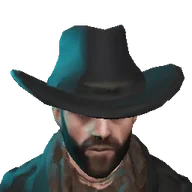
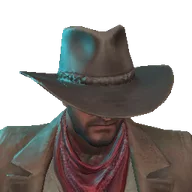
Characters 11-22 follow-ups: portraits for the twelve new and the swapped Goblina and Dusty Ranger; the boxer bunny is Buster Haymaker (male body), its grip re-fitted
Claude-Session: https://claude.ai/code/session_01PfNGaHafsFeFAcWZgUEzoB

diff --git a/packages/client/src/frontend/portraitIndex.ts b/packages/client/src/frontend/portraitIndex.ts
@@ -38,6 +38,7 @@ export const SHIPPED_PORTRAITS: Readonly<Record<string, string>> = {
   'core.botboy': 'core.botboy.webp?v=54f1ce25e3',
   'core.botney': 'core.botney.webp?v=d04374461a',
   'core.boxduck': 'core.boxduck.webp?v=cb254eeb24',
+  'core.boxerbunny': 'core.boxerbunny.webp?v=946eee7ea7',
   'core.brannock': 'core.brannock.webp?v=403aa9568d',
   'core.brasshare': 'core.brasshare.webp?v=eea42f5993',
   'core.brawler': 'core.brawler.webp?v=6444222401',
@@ -47,15 +48,18 @@ export const SHIPPED_PORTRAITS: Readonly<Record<string, string>> = {
   'core.butcher': 'core.butcher.webp?v=42d05acfac',
   'core.celestialknight': 'core.celestialknight.webp?v=cfbede0ff9',
   'core.chameleon': 'core.chameleon.webp?v=edd7482869',
+  'core.cheetah': 'core.cheetah.webp?v=c842ee9d7c',
   'core.coachtortoise': 'core.coachtortoise.webp?v=dabdc8b0b0',
   'core.commando': 'core.commando.webp?v=07f61b931d',
   'core.crewalchemist': 'core.crewalchemist.webp?v=2f5e14c2c1',
+  'core.crewchronomage': 'core.crewchronomage.webp?v=c682837211',
   'core.crewcyborg': 'core.crewcyborg.webp?v=33376ee5bb',
   'core.crewdemolitions': 'core.crewdemolitions.webp?v=651de03e68',
   'core.crewgunslinger': 'core.crewgunslinger.webp?v=ee0fb29892',
   'core.crewmechanic': 'core.crewmechanic.webp?v=70f8e574b5',
   'core.crewmedic': 'core.crewmedic.webp?v=8c0d9cba10',
   'core.crewphase': 'core.crewphase.webp?v=8b2827c9cb',
+  'core.crewquartermaster': 'core.crewquartermaster.webp?v=c4a7256139',
   'core.crewrecon': 'core.crewrecon.webp?v=e7db519622',
   'core.crimsonop': 'core.crimsonop.webp?v=d3fa14eb17',
   'core.croakley': 'core.croakley.webp?v=047fda75e1',
@@ -67,7 +71,7 @@ export const SHIPPED_PORTRAITS: Readonly<Record<string, string>> = {
   'core.desertranger': 'core.desertranger.webp?v=d22d8f1724',
   'core.drifter': 'core.drifter.webp?v=883f544047',
   'core.dusttrooper': 'core.dusttrooper.webp?v=1c5cda9972',
-  'core.dustycolt': 'core.dustycolt.webp?v=2365df573d',
+  'core.dustycolt': 'core.dustycolt.webp?v=d91bb5984b',
   'core.elder': 'core.elder.webp?v=a25d620f8e',
   'core.elephantwarrior': 'core.elephantwarrior.webp?v=411c05ff13',
   'core.ember': 'core.ember.webp?v=4cee8aaf7b',
@@ -83,21 +87,23 @@ export const SHIPPED_PORTRAITS: Readonly<Record<string, string>> = {
   'core.frostviking': 'core.frostviking.webp?v=e09f0d5ead',
   'core.galloway': 'core.galloway.webp?v=2c1dd67b03',
   'core.giggles': 'core.giggles.webp?v=68f7642c63',
+  'core.gladiatorrooster': 'core.gladiatorrooster.webp?v=188a481bc7',
   'core.goblin': 'core.goblin.webp?v=9bfd26aa6a',
-  'core.goblinatinker': 'core.goblinatinker.webp?v=a3f1d8a448',
   'core.goblingunslinger': 'core.goblingunslinger.webp?v=e440709911',
   'core.goblinwarlord': 'core.goblinwarlord.webp?v=280e4ce4c2',
   'core.goldenwarrior': 'core.goldenwarrior.webp?v=045850ae4a',
   'core.gorgle': 'core.gorgle.webp?v=cb058e0217',
   'core.gorillag': 'core.gorillag.webp?v=f4f56f9e59',
+  'core.graffitiraccoon': 'core.graffitiraccoon.webp?v=64568772a5',
   'core.grandpachains': 'core.grandpachains.webp?v=91f89d6b16',
   'core.greensentinel': 'core.greensentinel.webp?v=0023c7f602',
   'core.greyfang': 'core.greyfang.webp?v=166d34f779',
-  'core.grizzelda': 'core.grizzelda.webp?v=27545310d7',
+  'core.grizzelda': 'core.grizzelda.webp?v=935ef95313',
   'core.groaner': 'core.groaner.webp?v=da4de19091',
   'core.grunt68': 'core.grunt68.webp?v=9e280b4691',
   'core.gymfrog': 'core.gymfrog.webp?v=8b80fb37c8',
   'core.halvard': 'core.halvard.webp?v=efc8ec809e',
+  'core.harecourier': 'core.harecourier.webp?v=263e2b7460',
   'core.hazmat': 'core.hazmat.webp?v=1901b888c1',
   'core.hector': 'core.hector.webp?v=95e3b5352a',
   'core.hoboclown': 'core.hoboclown.webp?v=b3a1ffaab9',
@@ -110,6 +116,7 @@ export const SHIPPED_PORTRAITS: Readonly<Record<string, string>> = {
   'core.knight': 'core.knight.webp?v=fe7d4b3d86',
   'core.larry': 'core.larry.webp?v=a2adf05270',
   'core.lionsuit': 'core.lionsuit.webp?v=6f110457a8',
+  'core.mantisshrimp': 'core.mantisshrimp.webp?v=86cee56f70',
   'core.maskedfigure': 'core.maskedfigure.webp?v=ca73b9d208',
   'core.mechanic': 'core.mechanic.webp?v=ab3544b0af',
   'core.medic': 'core.medic.webp?v=16947207c4',
@@ -138,10 +145,12 @@ export const SHIPPED_PORTRAITS: Readonly<Record<string, string>> = {
   'core.pruitt': 'core.pruitt.webp?v=7d078a31a7',
   'core.punkin': 'core.punkin.webp?v=9cd76a044a',
   'core.purplehero': 'core.purplehero.webp?v=4afa2b3524',
+  'core.raccoonhacker': 'core.raccoonhacker.webp?v=09433a93b8',
   'core.racer': 'core.racer.webp?v=806ff38eed',
   'core.ranger': 'core.ranger.webp?v=540b7adcce',
   'core.rattles': 'core.rattles.webp?v=d642a4ba8e',
   'core.resolvesoldier': 'core.resolvesoldier.webp?v=993582c66a',
+  'core.rhinojuggernaut': 'core.rhinojuggernaut.webp?v=9c7b2e4df0',
   'core.ricochet': 'core.ricochet.webp?v=2aa2eded45',
   'core.rollerbot': 'core.rollerbot.webp?v=f9f486fd0f',
   'core.rotter': 'core.rotter.webp?v=5a7e1f3d3f',
@@ -173,9 +182,10 @@ export const SHIPPED_PORTRAITS: Readonly<Record<string, string>> = {
   'core.sugarskull': 'core.sugarskull.webp?v=b245247d1a',
   'core.suitedman': 'core.suitedman.webp?v=e88efa9456',
   'core.sunpriest': 'core.sunpriest.webp?v=7d9a2cfea0',
-  'core.sunsetgunslinger': 'core.sunsetgunslinger.webp?v=fc6e03686f',
+  'core.synthwaveeel': 'core.synthwaveeel.webp?v=7aba8da10a',
   'core.t350': 'core.t350.webp?v=b718aa477c',
   'core.tacticalsoldier': 'core.tacticalsoldier.webp?v=fc2791114f',
+  'core.tasmaniandevil': 'core.tasmaniandevil.webp?v=735505a920',
   'core.teddy': 'core.teddy.webp?v=c70cc9263a',
   'core.thornweaver': 'core.thornweaver.webp?v=28aaae6611',
   'core.timetraveler': 'core.timetraveler.webp?v=f5e2f4e636',

diff --git a/packages/shared/src/content/gripFit.generated.ts b/packages/shared/src/content/gripFit.generated.ts
@@ -36,7 +36,7 @@ export const GRIP_FITS: Readonly<Record<string, { grip?: GripTune; arms?: { skin
   'core.botboy': { grip: { gripLong: [0.018, 0, -0.002], supportLong: [-0.008, -0.009, 0], gripPistol: [0.012, -0.004, 0.001], supportPistol: [-0.014, -0.012, 0.01] }, arms: { skin: '#574f3d', cloth: '#484031', trim: '#6b5d49' } },
   'core.botney': { grip: { gripLong: [-0.009, 0.012, 0.002], supportLong: [-0.013, 0.011, 0], gripPistol: [0.004, -0.01, 0.003], supportPistol: [-0.024, 0.014, 0.006] }, arms: { skin: '#4b4b47', cloth: '#434342', trim: '#2a2a29' } },
   'core.boxduck': { grip: { gripLong: [0, 0.012, 0.031], supportLong: [0.018, -0.012, 0], gripPistol: [0.001, -0.019, 0.026], supportPistol: [0.09, -0.008, 0.09] }, arms: { skin: '#f1de82', cloth: '#f3dc6e', trim: '#978844' } },
-  'core.boxerbunny': { grip: { gripLong: [0.004, -0.034, -0.002], supportLong: [0.03, -0.024, 0], gripPistol: [0.005, -0.006, 0.019], supportPistol: [0.036, -0.029, -0.025] }, arms: { skin: '#a2988d', cloth: '#9a938d', trim: '#827d79' } },
+  'core.boxerbunny': { grip: { gripLong: [-0.009, 0.014, -0.017], supportLong: [-0.017, -0.002, 0], gripPistol: [0.01, 0.001, -0.013], supportPistol: [0.088, 0.006, 0.078] }, arms: { skin: '#a2988d', cloth: '#9a938d', trim: '#827d79' } },
   'core.brannock': { grip: { gripLong: [-0.011, 0.006, -0.009], supportLong: [-0.003, 0.009, 0], gripPistol: [0, 0.001, -0.002], supportPistol: [-0.012, 0.013, -0.012] }, arms: { skin: '#b4806a', cloth: '#4b4747', trim: '#57322c' } },
   'core.brasshare': { grip: { gripLong: [-0.007, -0.022, 0.003], supportLong: [0.002, 0.015, 0], gripPistol: [0, -0.011, 0.017], supportPistol: [0.017, 0.023, -0.002] }, arms: { skin: '#453527', cloth: '#4f3e24', trim: '#6e5338' } },
   'core.bronzer': { grip: { gripLong: [-0.016, 0.008, 0.005], supportLong: [0.01, 0.009, 0], gripPistol: [-0.013, -0.005, 0.008], supportPistol: [0.003, 0.005, -0.001] }, arms: { skin: '#787060', cloth: '#716c61', trim: '#46433c' } },

diff --git a/packages/shared/src/content/characters.generated.ts b/packages/shared/src/content/characters.generated.ts
@@ -190,7 +190,7 @@ export const WHOLE_BODY_LOOKS: readonly CharacterLook[] = [
   { id: 'core.synthwaveeel', name: 'DJ Volta Coilwave', body: 'male', head: '', parts: ['meshy_synthwaveeel'], hair: [], colorways: [], skin: null, hairColor: null, whole: { arms: 'ranger_arms_m' }, group: 'animals', tier: 'experimental', nameTheme: 'critter' },
   { id: 'core.tasmaniandevil', name: 'Rowdy Gnashwell', body: 'male', head: '', parts: ['meshy_tasmaniandevil'], hair: [], colorways: [], skin: null, hairColor: null, size: 'small', whole: { arms: 'ranger_arms_m' }, group: 'animals', tier: 'experimental', nameTheme: 'critter' },
   { id: 'core.harecourier', name: 'Pip Quickfoot', body: 'male', head: '', parts: ['meshy_harecourier'], hair: [], colorways: [], skin: null, hairColor: null, size: 'small', whole: { arms: 'ranger_arms_m' }, group: 'animals', tier: 'experimental', nameTheme: 'critter' },
-  { id: 'core.boxerbunny', name: 'Bonnie Haymaker', body: 'female', head: '', parts: ['meshy_boxerbunny'], hair: [], colorways: [], skin: null, hairColor: null, whole: { arms: 'ranger_arms_f' }, group: 'animals', tier: 'experimental', nameTheme: 'critter' },
+  { id: 'core.boxerbunny', name: 'Buster Haymaker', body: 'male', head: '', parts: ['meshy_boxerbunny'], hair: [], colorways: [], skin: null, hairColor: null, whole: { arms: 'ranger_arms_m' }, group: 'animals', tier: 'experimental', nameTheme: 'critter' },
   { id: 'core.cheetah', name: 'Duke Dashwood', body: 'male', head: '', parts: ['meshy_cheetah'], hair: [], colorways: [], skin: null, hairColor: null, whole: { arms: 'ranger_arms_m' }, group: 'animals', tier: 'experimental', nameTheme: 'cat' },
 ];
 

diff --git a/docs/CHARACTERS.md b/docs/CHARACTERS.md
@@ -245,7 +245,7 @@ tiers; anything else fails `pnpm content:check`) is copied into its look (`tier`
     Chompers McFinn (Wacky Shark), Master Bodhi (Zen Capybara); and from the afternoon Brutus Hornbeck (armoured
     rhino juggernaut), Zero Ringtail (raccoon hacker), Tag Malone (graffiti raccoon), Ryo Snapclaw (mantis shrimp
     samurai; blue blood, as a crustacean's), Maximus Cluckworth (gladiator rooster), DJ Volta Coilwave (synthwave
-    eel DJ), Rowdy Gnashwell (Tasmanian devil), Pip Quickfoot (hare courier), Bonnie Haymaker (boxer bunny) and
+    eel DJ), Rowdy Gnashwell (Tasmanian devil), Pip Quickfoot (hare courier), Buster Haymaker (boxer bunny) and
     Duke Dashwood (the cheetah kingpin; the download says "cheetah pimp").
   Two of the batch became the models of characters already on the roster (owner, 2026-11-22) and left it: Tinker
   Goblina's GoblinaRigged is **Goblina**'s model, the Sunset Gunslinger's is **Dusty Ranger**'s (both keep their name,
